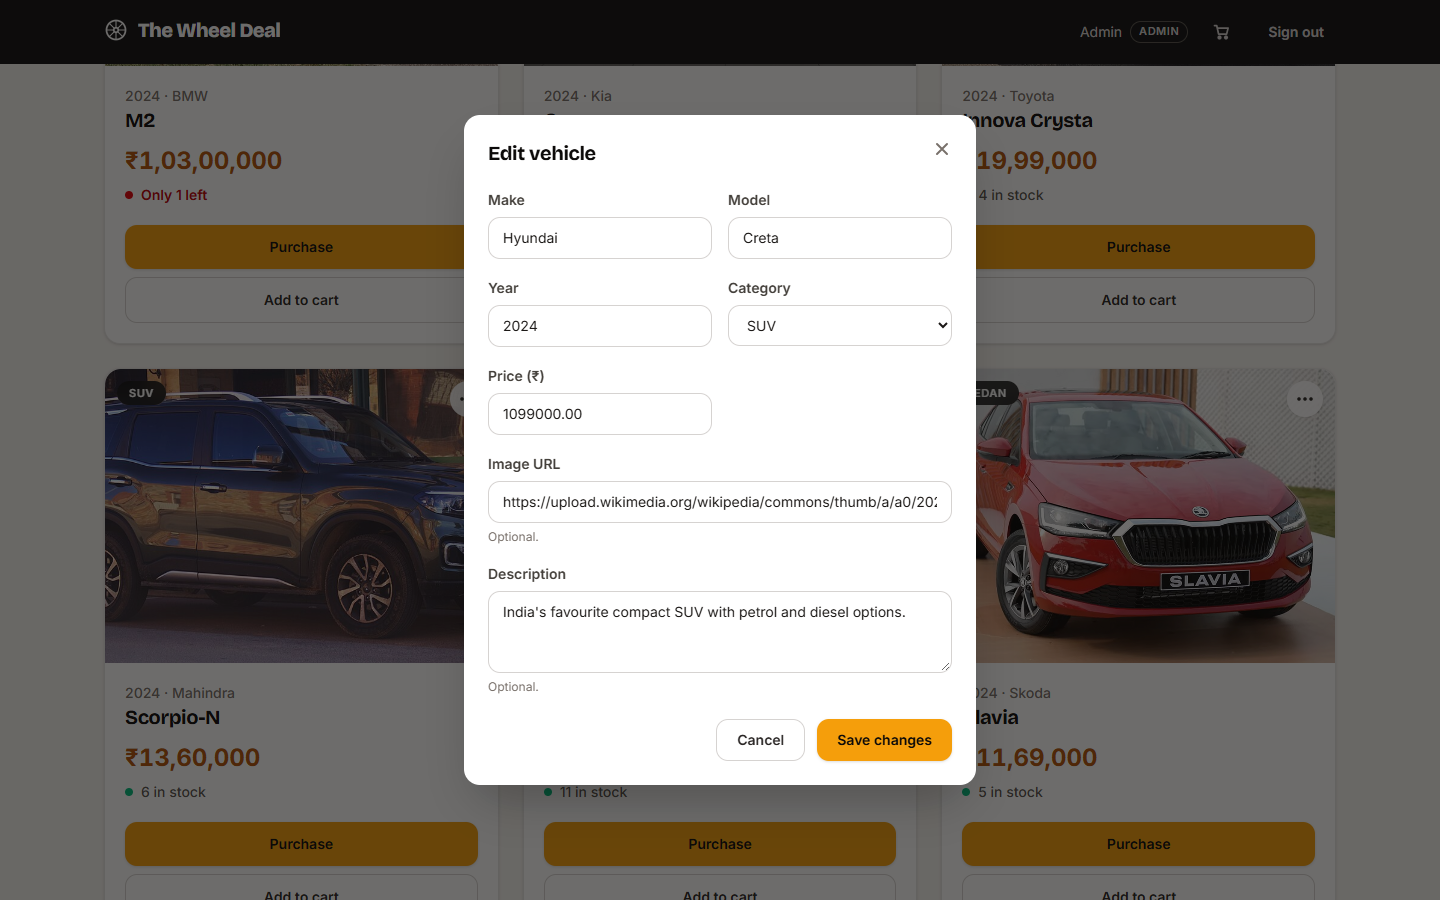
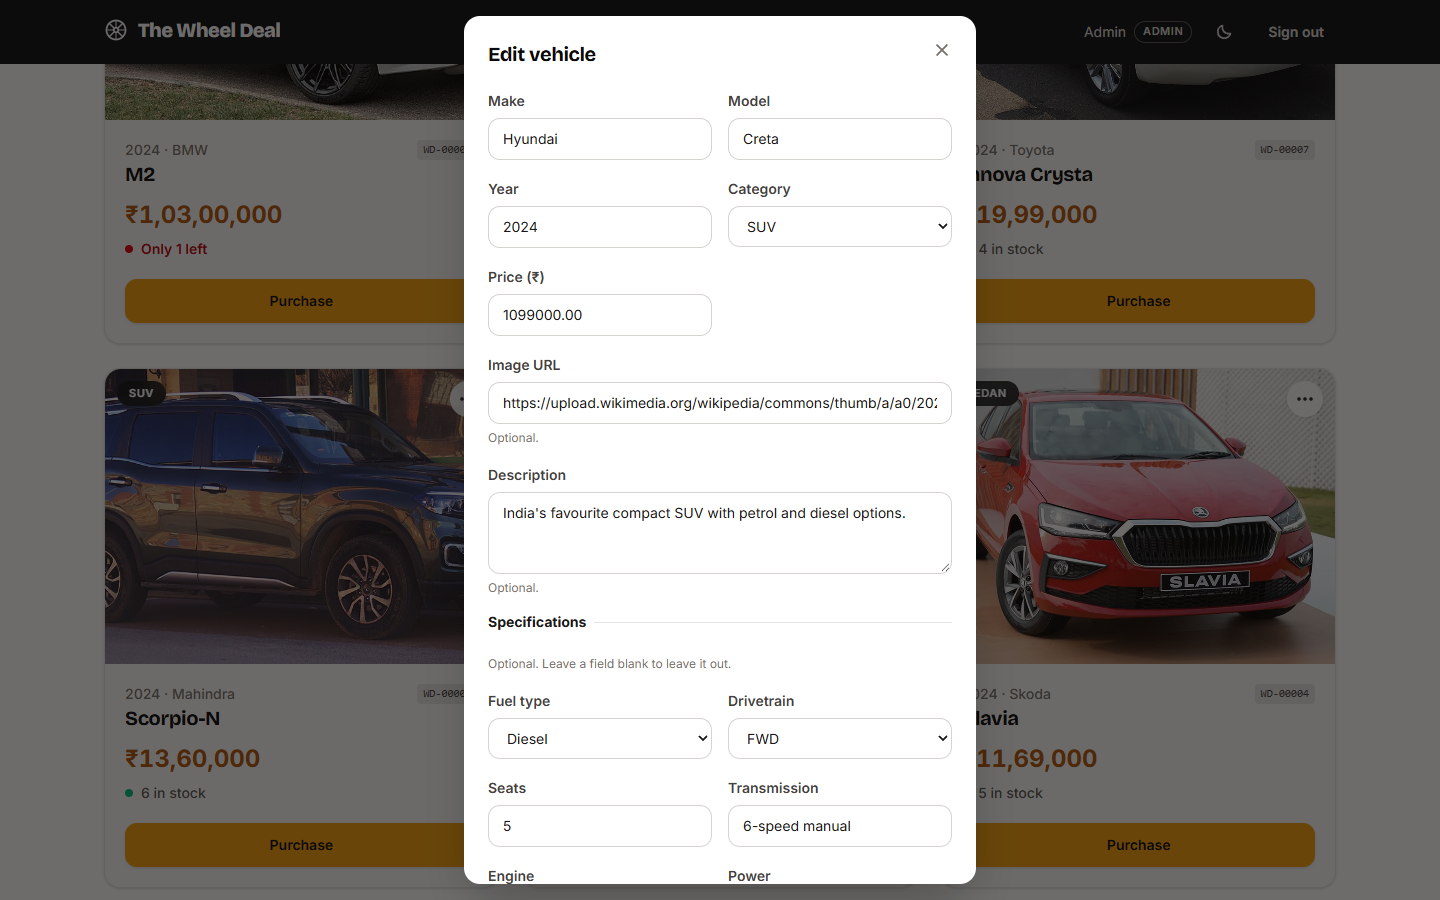
docs: document specs, stock ids, detail sheet and themes
README features and vehicle fields updated; screenshots re-captured in light and dark mode, including the detail sheet.

diff --git a/README.md b/README.md
@@ -7,7 +7,9 @@ A car dealership inventory app: a FastAPI + PostgreSQL backend and a React + Typ
 ## Features
 
 - Register and sign in. Accounts are either `user` or `admin`.
-- Browse the inventory as cards. Sold-out cars stay visible with a disabled "Sold out" button; low stock (1 to 3) shows "Only N left".
+- Browse the inventory as cards, each tagged with a unique stock number (e.g. `WD-00013`). Sold-out cars stay visible with a disabled "Sold out" button; low stock (1 to 3) shows "Only N left".
+- Click any car for a detail sheet: large photo, price, stock state, showroom location, and a spec grid (fuel, transmission, engine or battery, power, torque, drivetrain, seating, mileage or range, colour). The open car is in the URL (`?car=13`), so it can be shared, and Back closes it.
+- Light and dark mode: a header toggle that follows the system setting by default, remembers the choice, and never flashes the wrong theme on load.
 - Search by make and model (case-insensitive, partial match), category, and a price range. Filters live in the URL, so a filtered view can be bookmarked or shared.
 - Any signed-in user can purchase a car. Stock is decremented atomically, so two buyers cannot take the last unit.
 - Seeded cars come with photos (Wikimedia Commons, freely licensed, credited in [docs/IMAGE_CREDITS.md](docs/IMAGE_CREDITS.md)); cars without an image show a placeholder.
@@ -300,7 +302,7 @@ Base path `/api`. "user" means any signed-in user (admins included); protected e
 | POST | `/api/vehicles/{id}/purchase` | user | 200 updated vehicle. Optional body `{"quantity": n}` with `n >= 1`, default 1 | 401; 404; 409 not enough stock; 422 invalid quantity |
 | POST | `/api/vehicles/{id}/restock` | admin | 200 updated vehicle. Body `{"quantity": n}` required, `n >= 1` | 401; 403; 404; 422 |
 
-A vehicle is `id`, `make`, `model`, `year`, `category`, `price`, `quantity`, `image_url`, `description`, `created_at`, `updated_at`. `price` is a JSON string such as `"1250000.00"`. `category` is one of `sedan`, `suv`, `hatchback`, `coupe`, `convertible`, `truck`, `van`, `ev`.
+A vehicle is `id`, `make`, `model`, `year`, `category`, `price`, `quantity`, `image_url`, `description`, the optional specs `fuel_type` (`petrol`, `diesel`, `electric`, `hybrid`, `cng`), `transmission`, `engine`, `power`, `torque`, `drivetrain` (`fwd`, `rwd`, `awd`, `4wd`), `seats` (1 to 12), `mileage`, `color` and the showroom `location`, plus `created_at`, `updated_at` and a read-only `stock_id` (`WD-` and the zero-padded id, e.g. `WD-00013`). POST and PUT accept the spec fields; `stock_id` and `quantity` in a PUT body are a 422. `price` is a JSON string such as `"1250000.00"`. `category` is one of `sedan`, `suv`, `hatchback`, `coupe`, `convertible`, `truck`, `van`, `ev`.
 
 ## Design decisions
 
@@ -350,9 +352,21 @@ Sign in:
 
 ![Login page](docs/screenshots/login.png)
 
-Dashboard with the full inventory:
+Dashboard (light mode):
 
 ![Dashboard](docs/screenshots/dashboard.png)
+
+Dashboard (dark mode):
+
+![Dashboard in dark mode](docs/screenshots/dashboard-dark.png)
+
+Car detail sheet with specs and showroom location:
+
+![Car detail sheet](docs/screenshots/detail.png)
+
+Car detail sheet (dark mode):
+
+![Car detail sheet in dark mode](docs/screenshots/detail-dark.png)
 
 Filtered results (filters are in the URL):
 
@@ -369,6 +383,10 @@ Admin edit modal (no quantity field; stock changes only through purchase and res
 Mobile layout:
 
 ![Mobile layout](docs/screenshots/mobile.png)
+
+Detail sheet on a phone:
+
+![Mobile detail sheet](docs/screenshots/mobile-detail.png)
 
 ## My AI Usage
 
